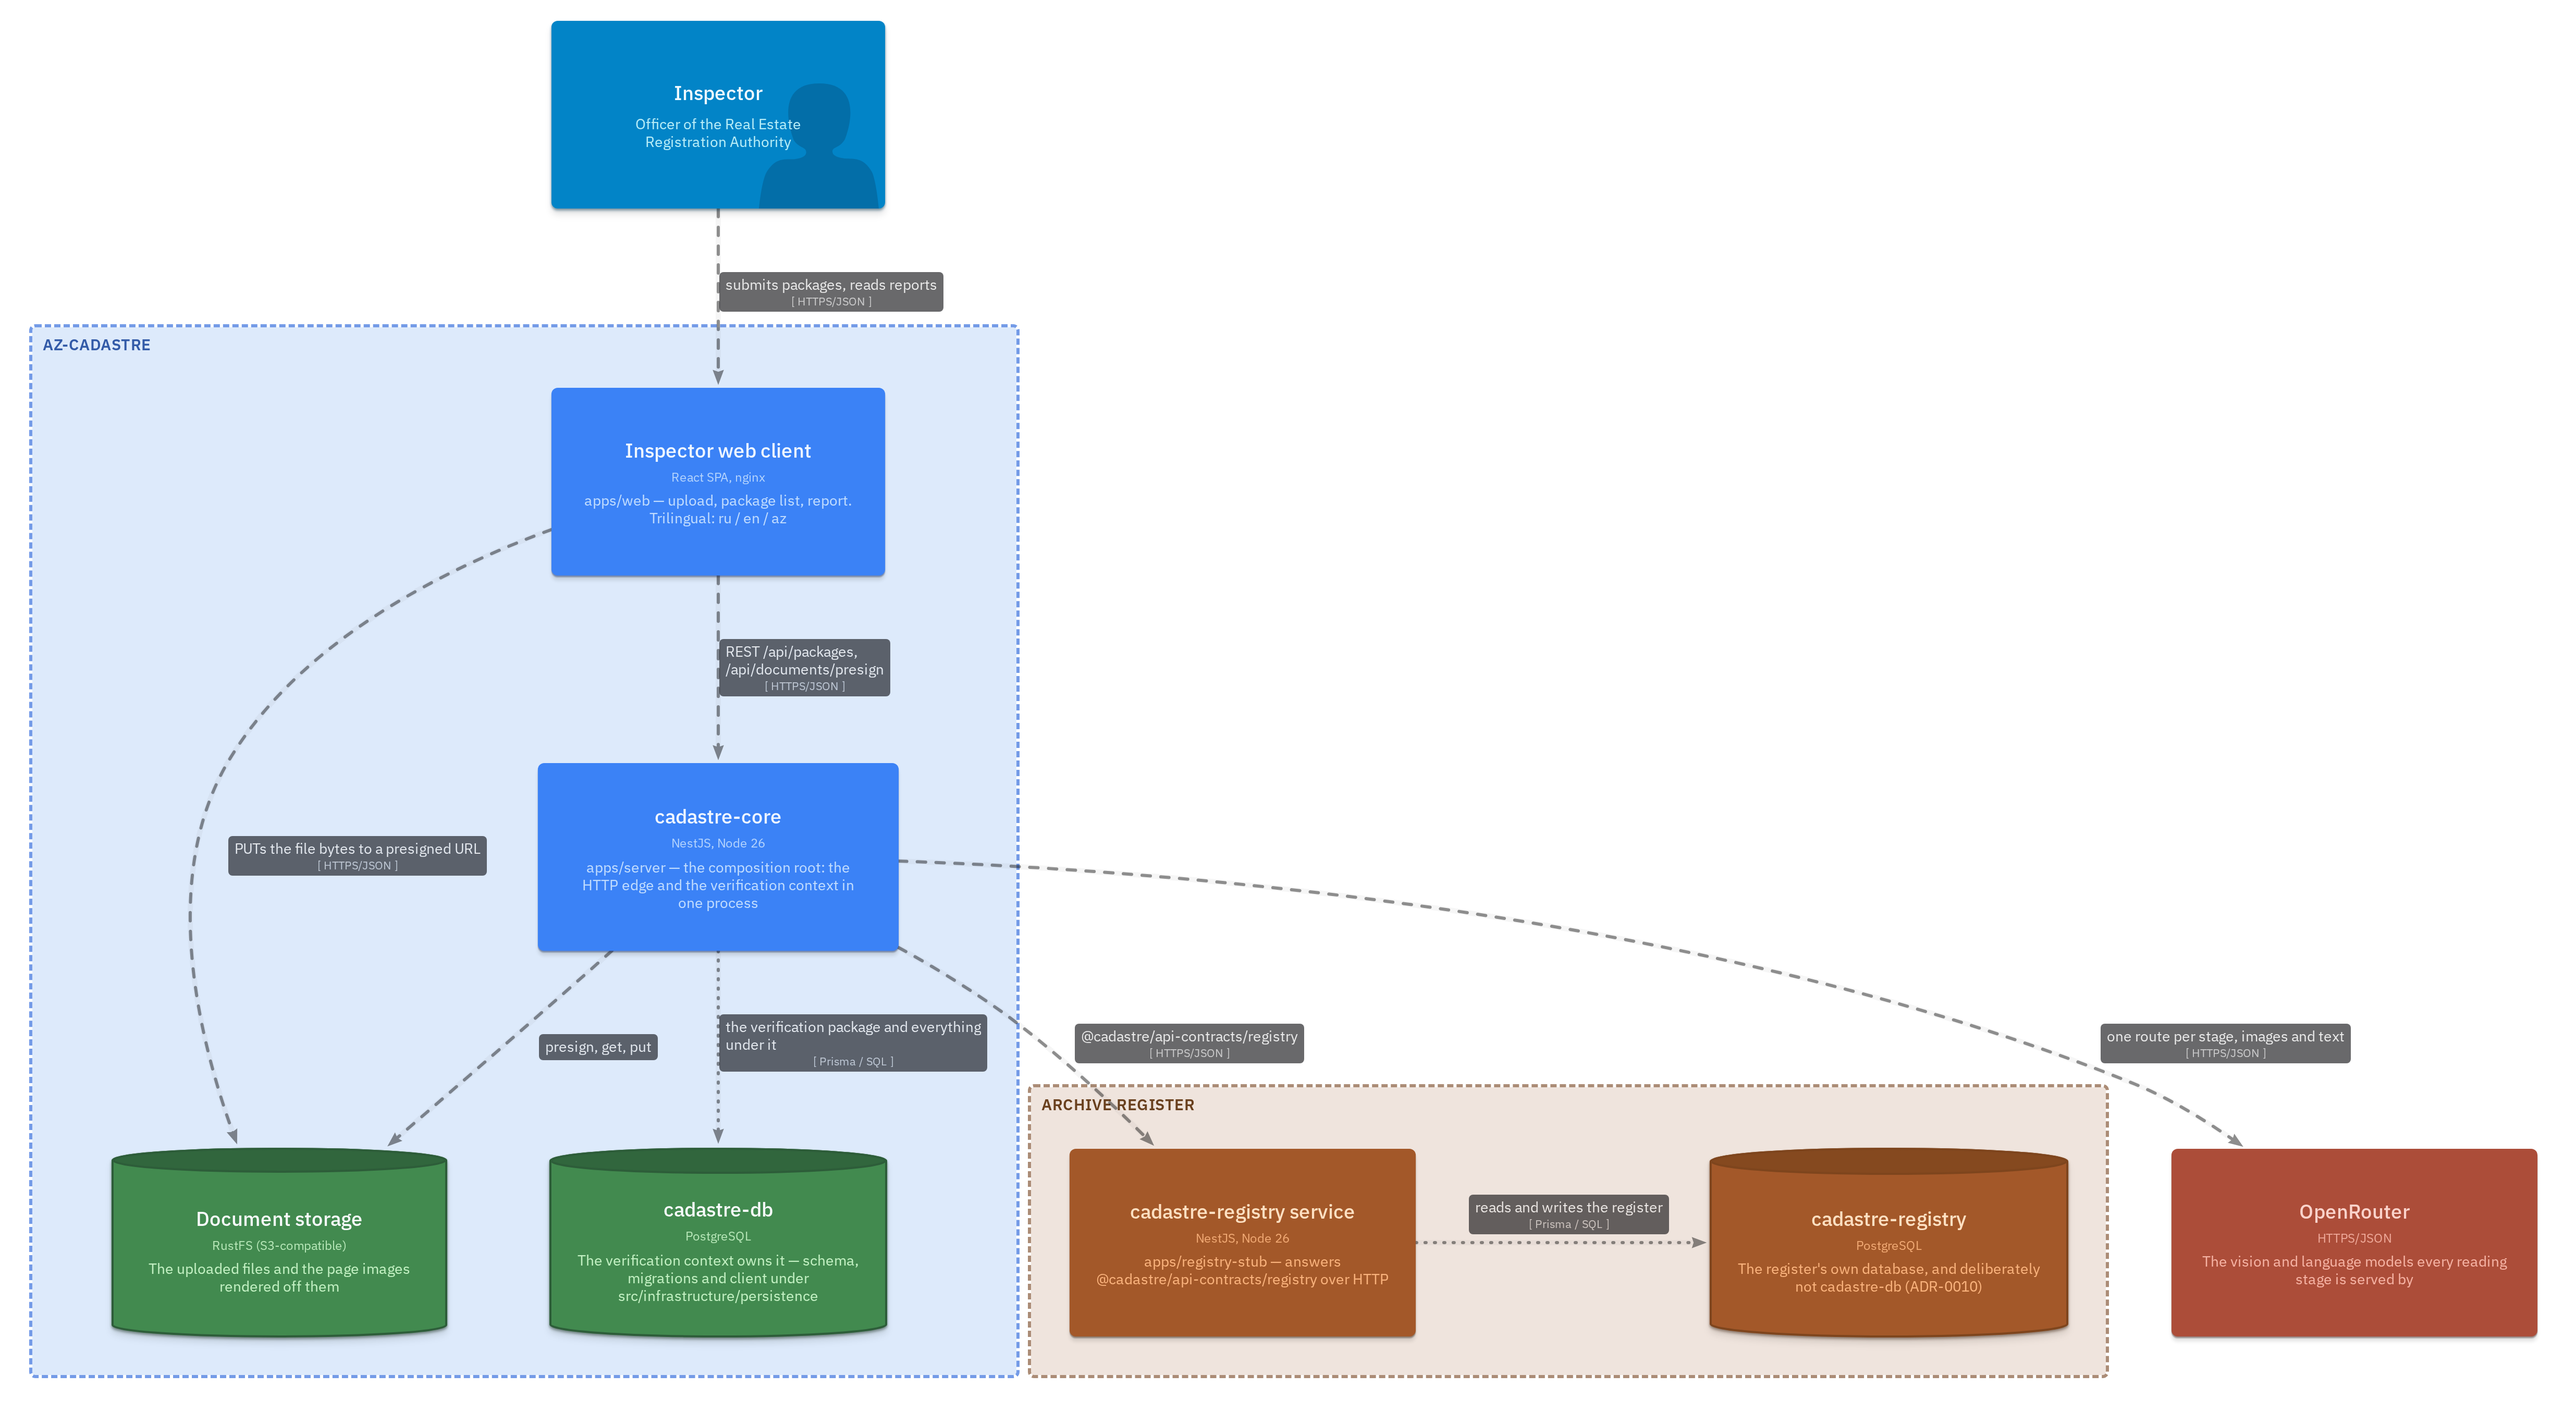
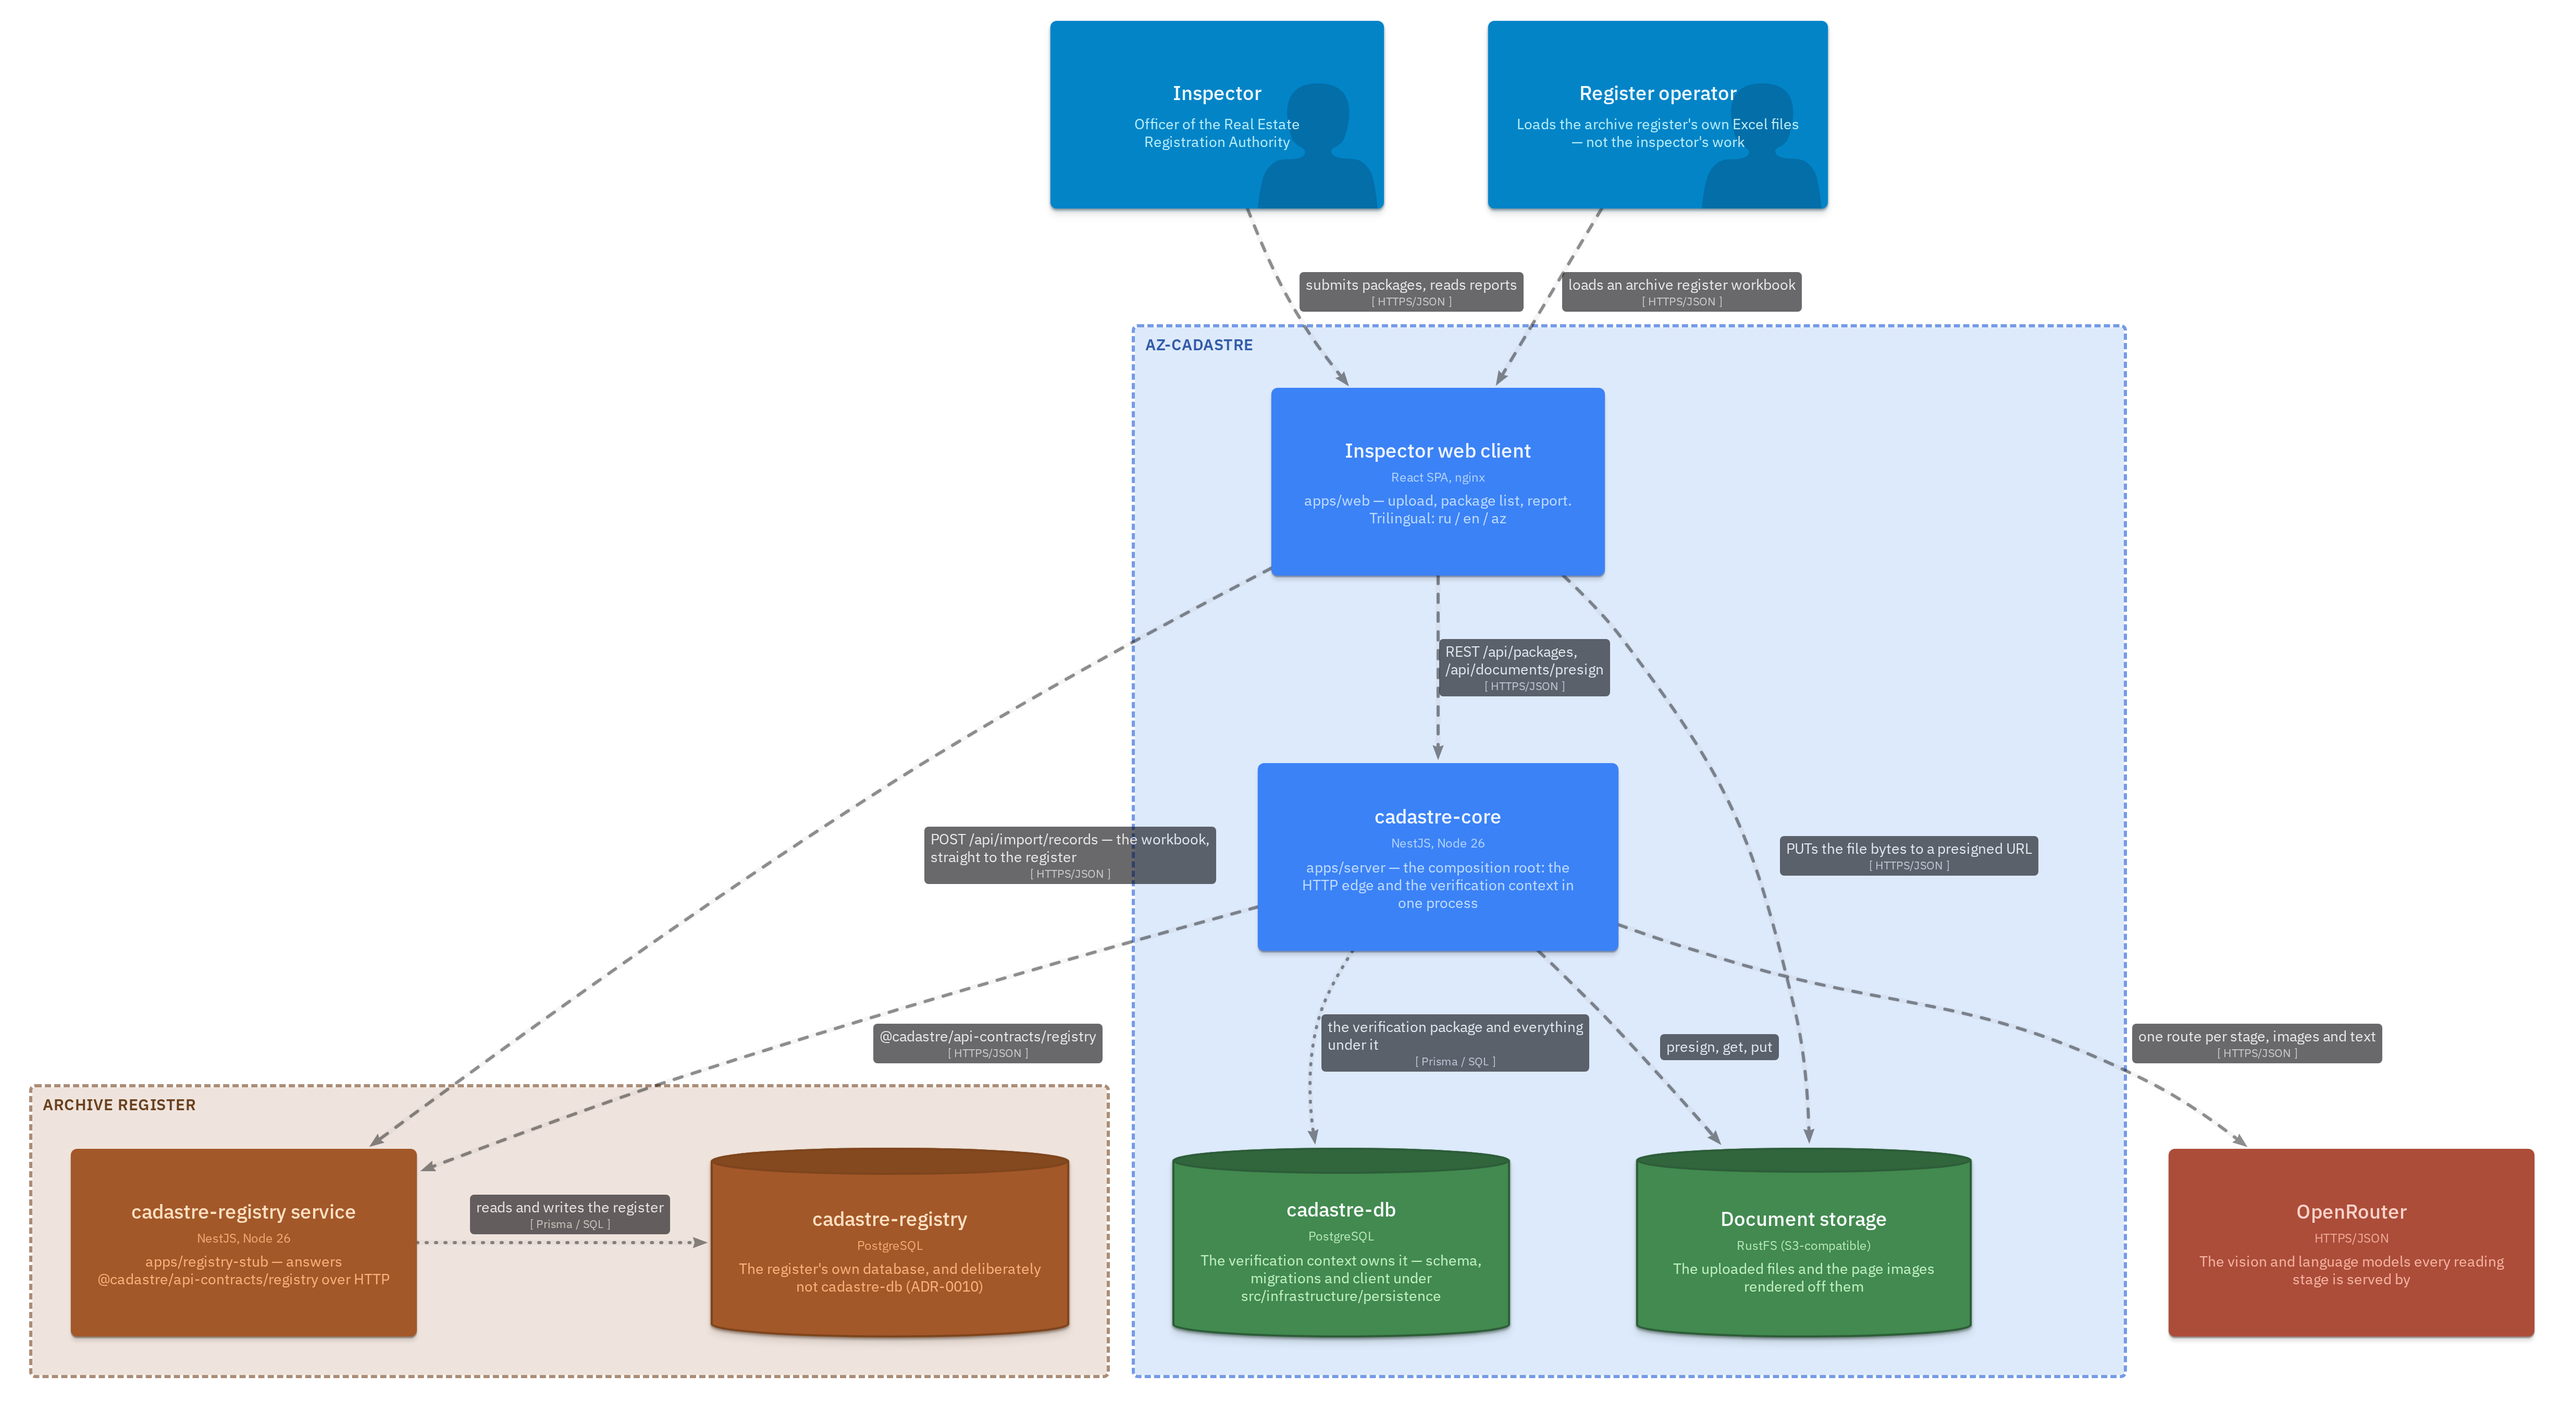
docs(COMM-26): the register operator, and the one call apps/web makes past the gateway
COMM-19 put the workbook upload in `apps/web` and the model never learned
about it: the container diagram showed `apps/web` speaking only to
`libs/api-gateway` and object storage, and the arrow that carries an archive
register file to `apps/registry-stub` was missing altogether.

Two facts, not a redrawing. `registryOperator` is the person who loads the
register and never submits a package, and `web -> registryApi` is the one call
`apps/web` makes that does not go through the gateway — deliberately outside
`@cadastre/api-contracts`, because no verification of a submission ever loads a
register file (ADR-0011 §1, TECH_DEBT §10).

`index`, `containers` and `backend` are re-exported; the ERDs and the sequence
diagram are byte-identical, which is the check that nothing else moved.

diff --git a/docs/architecture/README.md b/docs/architecture/README.md
@@ -29,6 +29,11 @@ verification ever becomes its own service.
 
 Two databases, not one, and no edge between them.
 
+Two people, too. The register operator loads the archive's own Excel files
+through `apps/web` and never submits a package — which is why `apps/web` has one
+arrow that does not go through the gateway: the register's import is deliberately
+outside `@cadastre/api-contracts` (ADR-0011 §1, TECH_DEBT §10).
+
 [![Containers](exports/containers.png)](exports/containers.png)
 
 ## Components of `cadastre-core` — the ports-and-adapters seam
